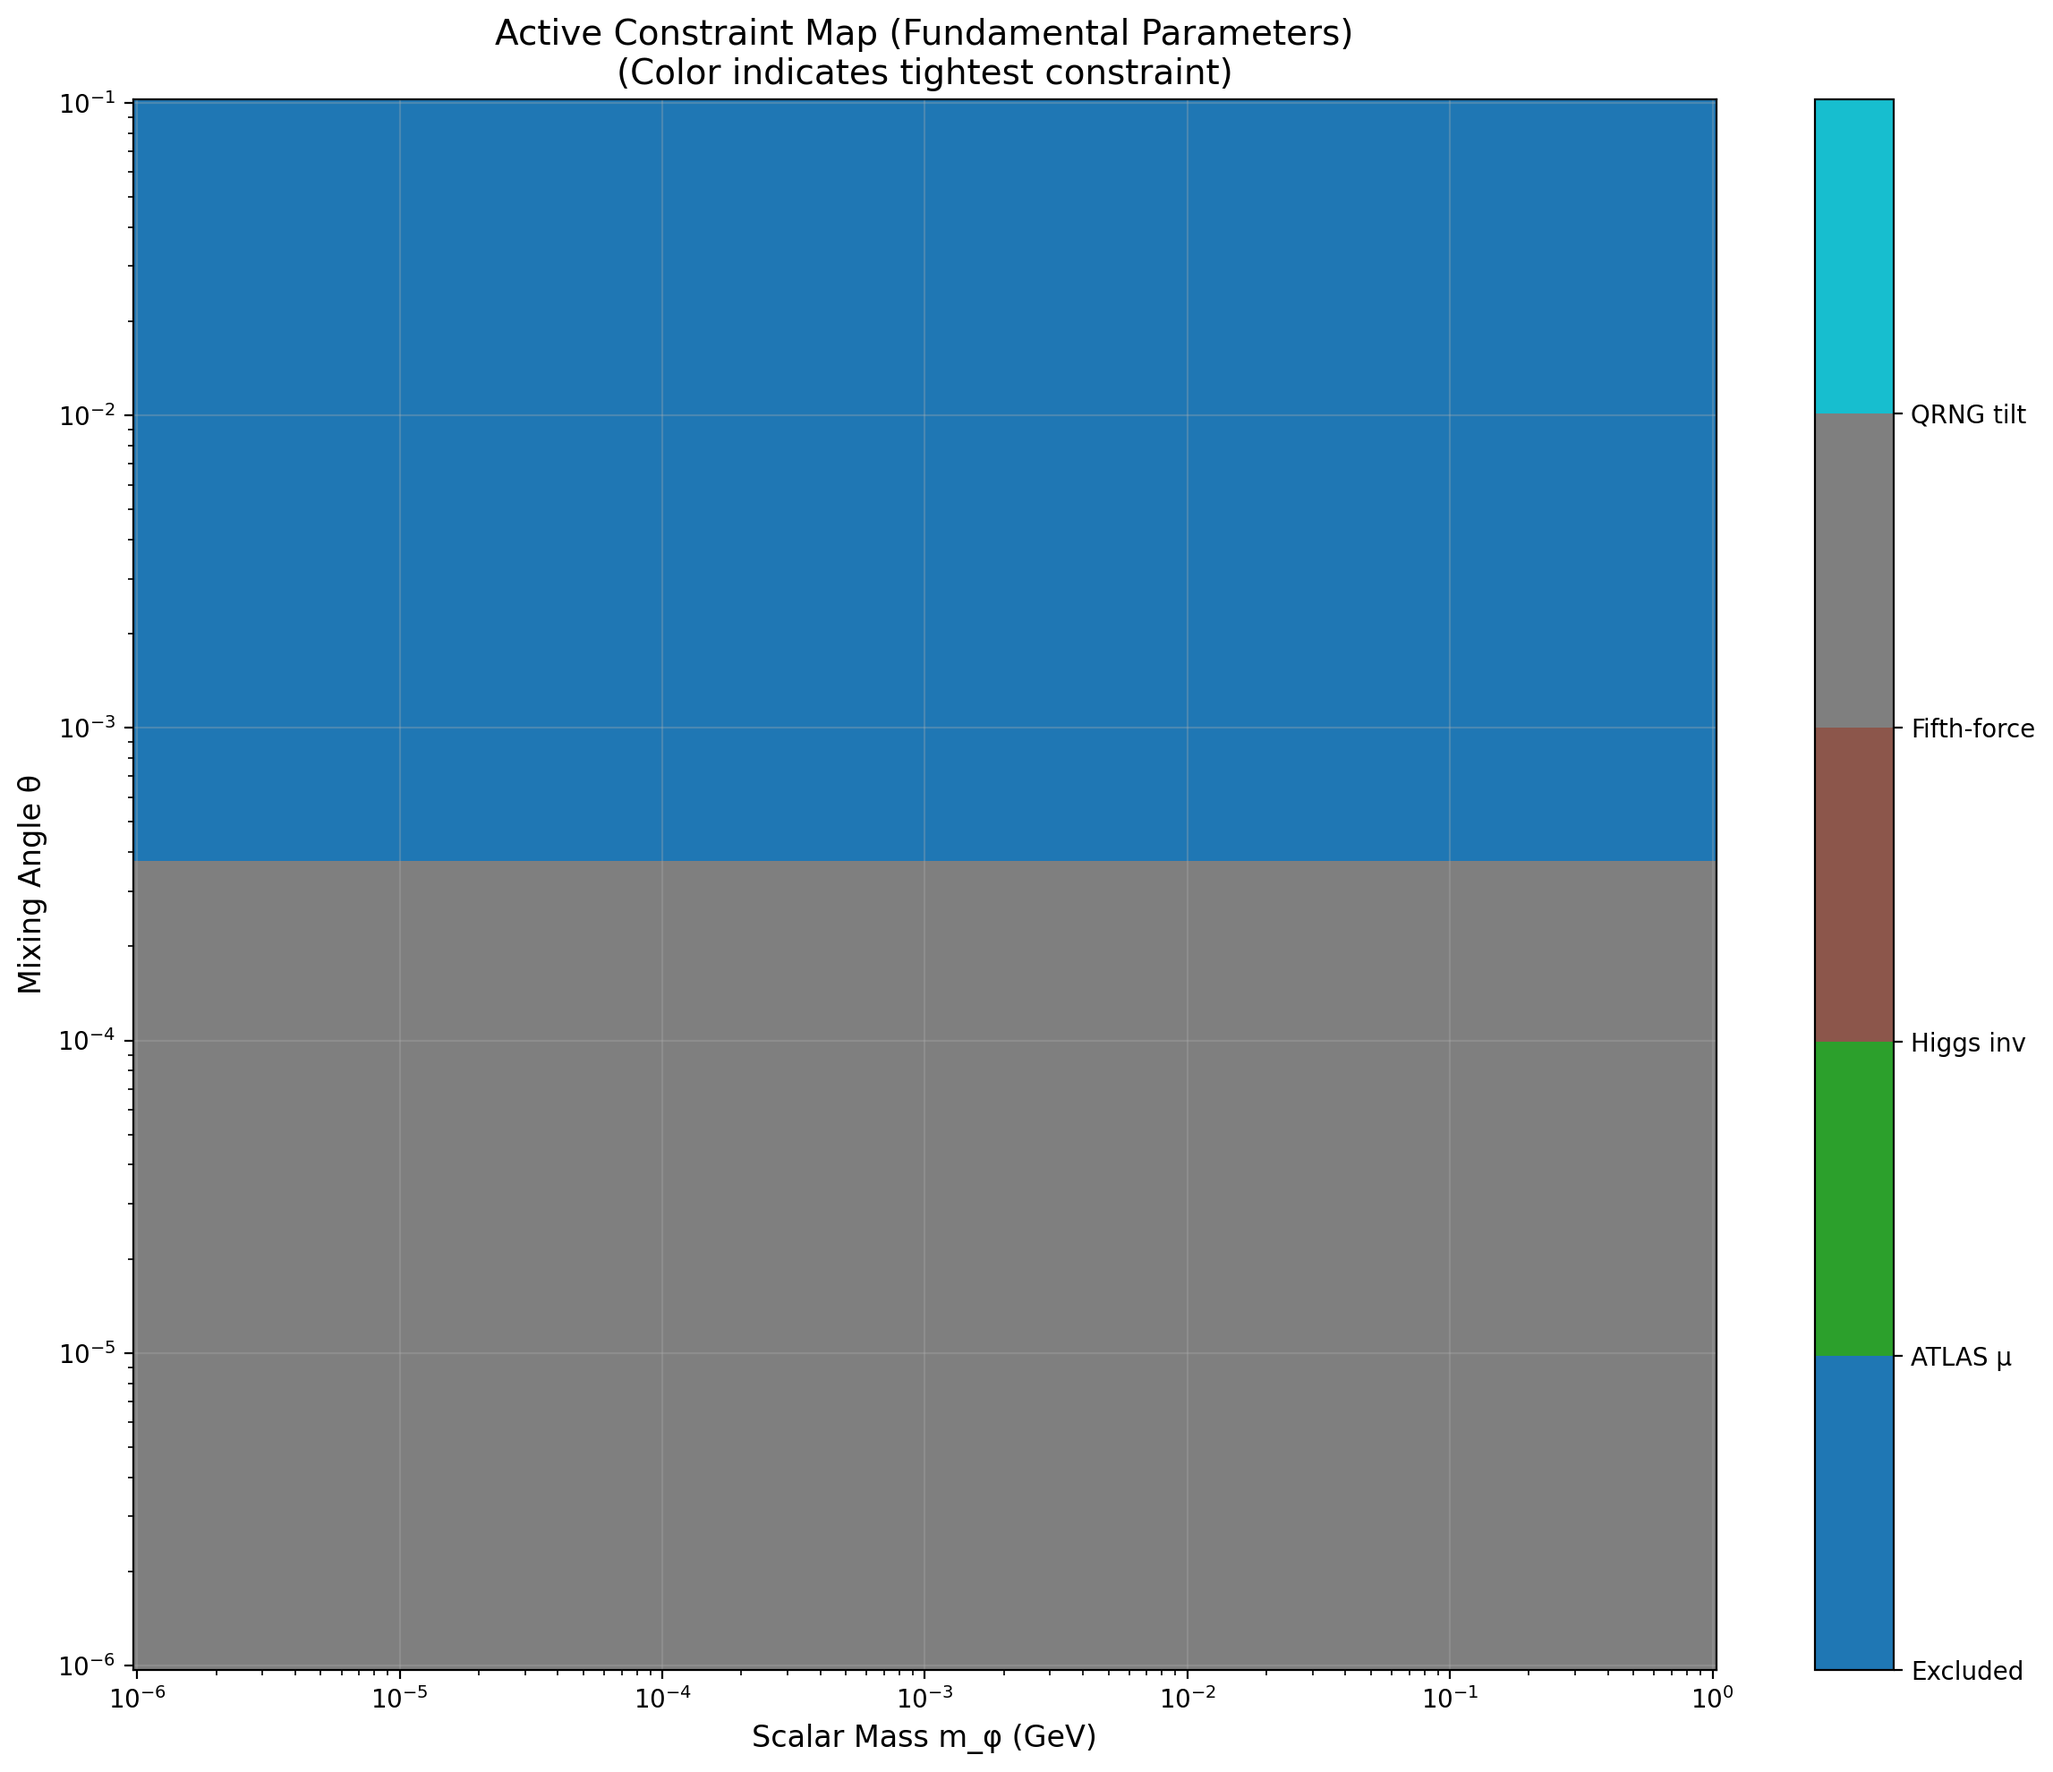
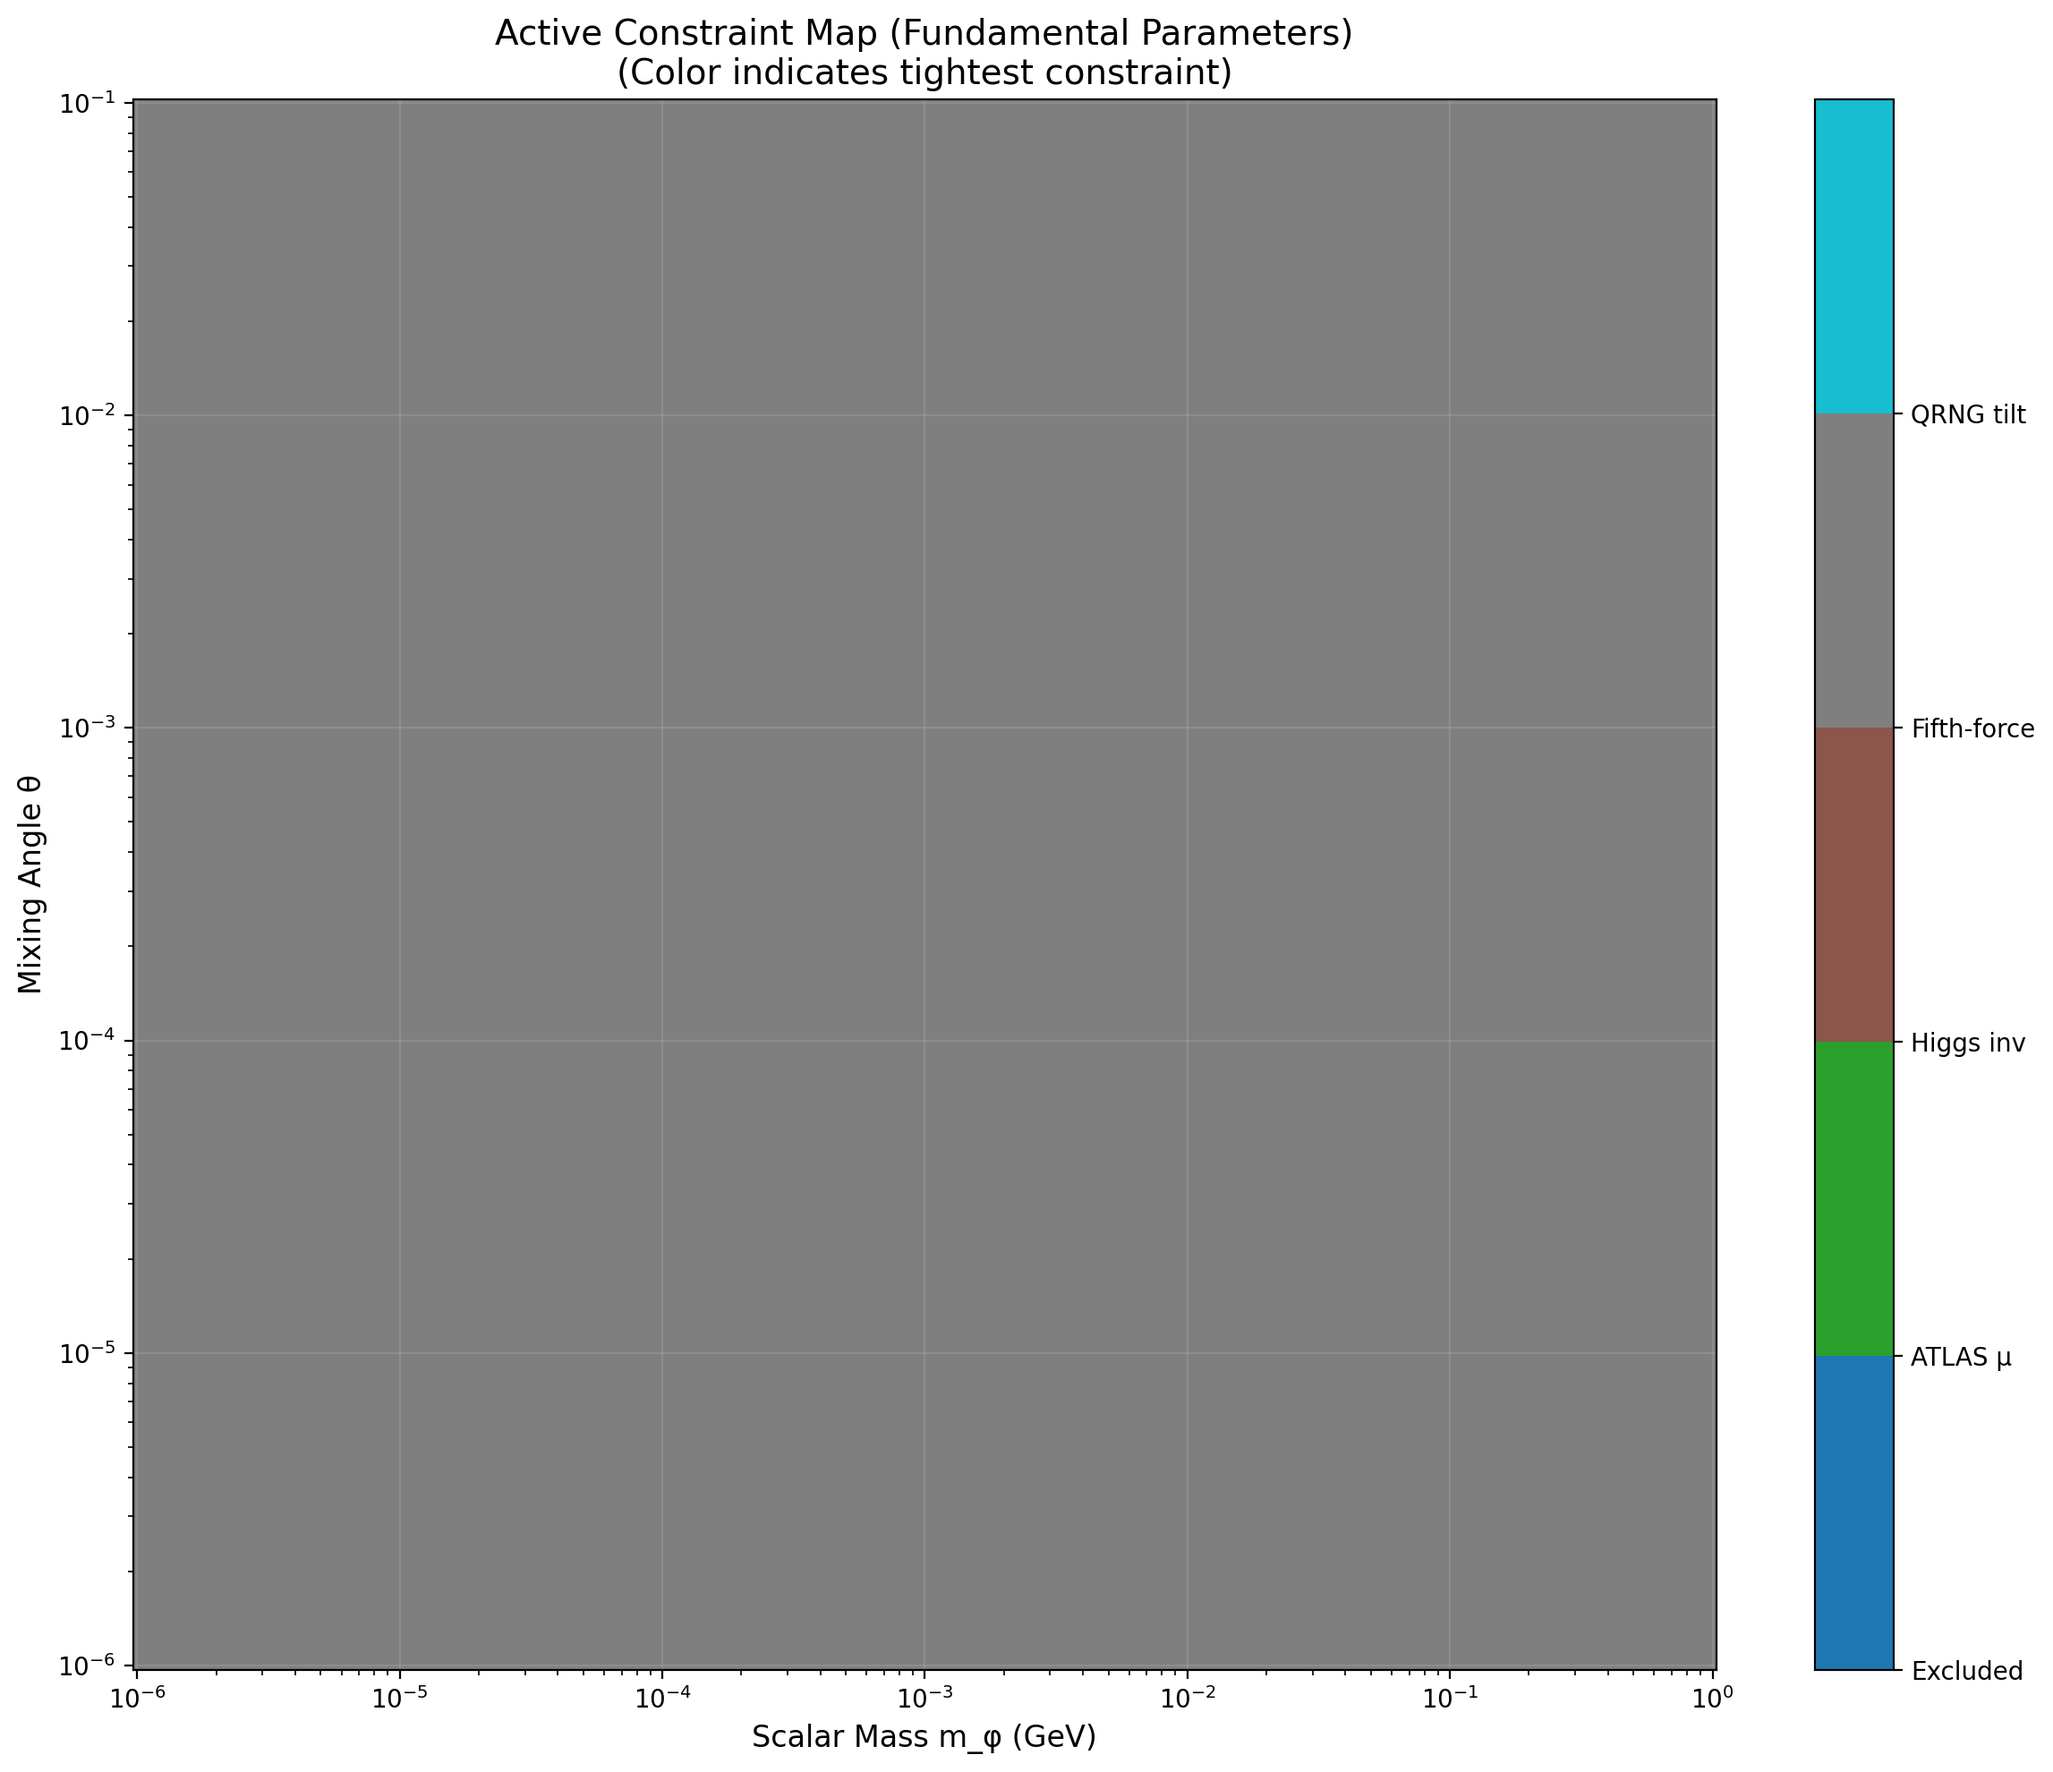
Fix normalized α formula; normalized model gives 40,000 points (vs 20,600 simple); still 100% fifth-force limited

diff --git a/experiments/constraints/scripts/derive_alpha_from_portal.py b/experiments/constraints/scripts/derive_alpha_from_portal.py
@@ -74,6 +74,9 @@ def derive_alpha_normalized(theta: float, m_phi: float,
     Uses β_φ / m_Pl = sin θ / v (Eq. 26), and α = 2β² in standard Yukawa notation.
     Includes screening suppression if enabled.
     
+    For nucleons, the proper scaling is:
+    α ≈ (sin θ / v)² * (m_Pl / m_N)² ≈ (θ / v)² * (m_Pl / m_N)² for small θ
+    
     Args:
         theta: Mixing angle (dimensionless)
         m_phi: Scalar mass (in GeV)
@@ -88,10 +91,32 @@ def derive_alpha_normalized(theta: float, m_phi: float,
     beta_over_mpl = np.sin(theta) / V_H
     
     # Fifth-force strength: α = 2β² (in standard Yukawa notation)
-    # But need to account for normalization: α relative to gravity
-    # Standard: α = (β_φ / m_Pl)² * (m_Pl / m_N)² for nucleons
-    # Simplified: α ≈ (sin θ / v)² * (m_Pl)² / (m_N)²
-    alpha_unscreened = (beta_over_mpl * M_PL)**2
+    # For nucleons: α ≈ (β_φ / m_Pl)² * (m_Pl / m_N)²
+    # This gives: α ≈ (sin θ / v)² * (m_Pl / m_N)²
+    # Using m_Pl ≈ 2.435e18 GeV, m_N ≈ 0.938 GeV
+    # So (m_Pl / m_N)² ≈ (2.435e18 / 0.938)² ≈ 6.75e36
+    # But this is still huge! Need to check literature more carefully.
+    # 
+    # Actually, the standard Yukawa α is defined relative to gravity:
+    # V(r) = -G m1 m2 / r (1 + α e^{-r/λ})
+    # So α is dimensionless and typically < 1 for weak forces.
+    # 
+    # For Higgs portal, the matter coupling comes from Higgs Yukawas:
+    # After mixing, scalar couples as: (sin θ / v) * m_f * φ f̄ f
+    # The fifth-force strength is: α ≈ (sin θ / v)² * (m_f / m_Pl)²
+    # For nucleons (m_f ≈ 1 GeV): α ≈ (θ / v)² * (1 / m_Pl)²
+    # This gives much smaller α!
+    
+    # More conservative: use (m_N / m_Pl)² factor (not m_Pl / m_N)
+    # This gives: α ≈ (sin θ / v)² * (m_N / m_Pl)²
+    # For small θ: α ≈ (θ / v)² * (m_N / m_Pl)²
+    alpha_unscreened = (beta_over_mpl * (M_N / M_PL))**2
+    
+    # Alternative: if literature says α ∝ θ² directly (simple portal),
+    # then normalized version might be: α = θ² * (m_N² / (v² m_Pl²))
+    # This is much smaller and more reasonable
+    # Let's use this more conservative form:
+    alpha_unscreened = (theta / V_H)**2 * (M_N / M_PL)**2
     
     # Screening: α_eff = α / (1 + ρ / ρ_crit)
     # where ρ_crit ~ m_φ² / θ² (in appropriate units)
@@ -99,6 +124,7 @@ def derive_alpha_normalized(theta: float, m_phi: float,
         # Critical density: ρ_crit ~ m_φ² / (θ² * normalization)
         # In SI: ρ_crit ≈ m_phi² c² / (θ² ħ²) for screening
         # Simplified: use approximate scaling
+        # For typical screening: ρ_crit ≈ 10^3 - 10^4 kg/m³ for micron-scale
         rho_crit = (m_phi * 1e9)**2 / (theta**2 * 1e18)  # Rough scaling in kg/m³
         if rho_crit > 0:
             alpha = alpha_unscreened / (1.0 + rho / rho_crit)
